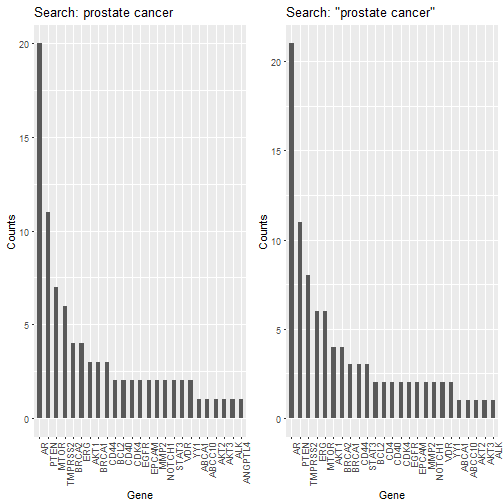
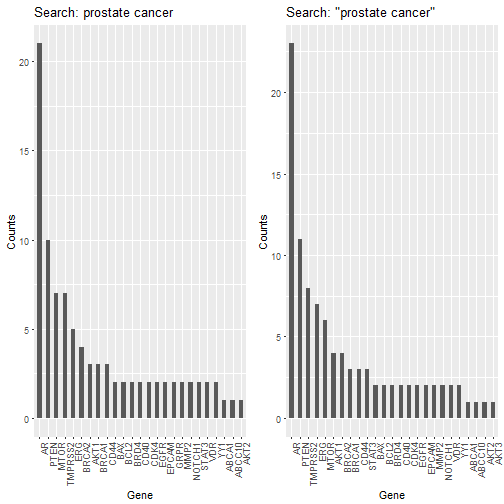
update links

diff --git a/gsIntro.html b/gsIntro.html
@@ -81,9 +81,9 @@ genes3[3, ]
 
 ## PubTator
 
-- The pubmed.mineR function pubtator_function accesses the PubTator website
+- The pubmed.mineR function pubtator_function accesses the PubTator [website](https://www.ncbi.nlm.nih.gov/CBBresearch/Lu/Demo/PubTator/index.cgi?user=User237763554)
 - This website allows us to extract the genes from each article
-- [PubTator](https://www.ncbi.nlm.nih.gov/CBBresearch/Lu/Demo/PubTator/index.cgi?user=User237763554)
+- PubTator also has a [tutorial](https://www.ncbi.nlm.nih.gov/CBBresearch/Lu/Demo/PubTator/tutorial/)
 
 ---
 
@@ -114,18 +114,18 @@ genes3[3, ]
 pmids &lt;- scrapeIDs (dataBase = 'pubmed',
                     term = 'prostate cancer')
 length(pmids)
-[1] 146277
+[1] 146301
 
 pmids[1:5]
-[1] "28632693" "28632688" "28632505" "28632486" "28632242"
+[1] "28637005" "28636979" "28636973" "28636713" "28636526"
 
 pmids2 &lt;- scrapeIDs (dataBase = 'pubmed',
                      term = '"prostate cancer"')
 length(pmids2)
-[1] 93140
+[1] 93161
 
 pmids2[1:5]
-[1] "28632693" "28632688" "28632505" "28632486" "28631917"
+[1] "28637005" "28636979" "28636713" "28636389" "28636142"
 ```
 
 ---
@@ -140,7 +140,7 @@ genes
 ```
 
 ```
-# A tibble: 155 x 2
+# A tibble: 151 x 2
   geneNames     n
       &lt;chr&gt; &lt;int&gt;
 1     ABCA1     1
@@ -148,7 +148,7 @@ genes
 3      AKT1     3
 4      AKT2     1
 5      AKT3     1
-# ... with 150 more rows
+# ... with 146 more rows
 ```
 
 ---
@@ -194,7 +194,7 @@ length (malaria2)
 ```
 
 ```
-[1] 8521
+[1] 8522
 ```
 
 ---
@@ -209,7 +209,7 @@ length (alzheimer)
 ```
 
 ```
-[1] 92079
+[1] 92104
 ```
 
 ```r
@@ -219,7 +219,7 @@ length (alzheimer2)
 ```
 
 ```
-[1] 77772
+[1] 77793
 ```
 
 ---
@@ -228,7 +228,7 @@ length (alzheimer2)
 
 From the NCBI website - MeSH (Medical Subject Headings) is the NLM controlled vocabulary thesaurus used for indexing articles for PubMed.
 
-A list of other terms can be found on the NCBI website [here](https://www.ncbi.nlm.nih.gov/books/NBK3827/#pubmedhelp.Search_Field_Descriptions_and)
+A list of other terms can be found at [PubMed Help](https://www.ncbi.nlm.nih.gov/books/NBK3827/#pubmedhelp.Search_Field_Descriptions_and).
     </textarea>
 <script src="https://remarkjs.com/downloads/remark-latest.min.js"></script>
 <script>var slideshow = remark.create({
